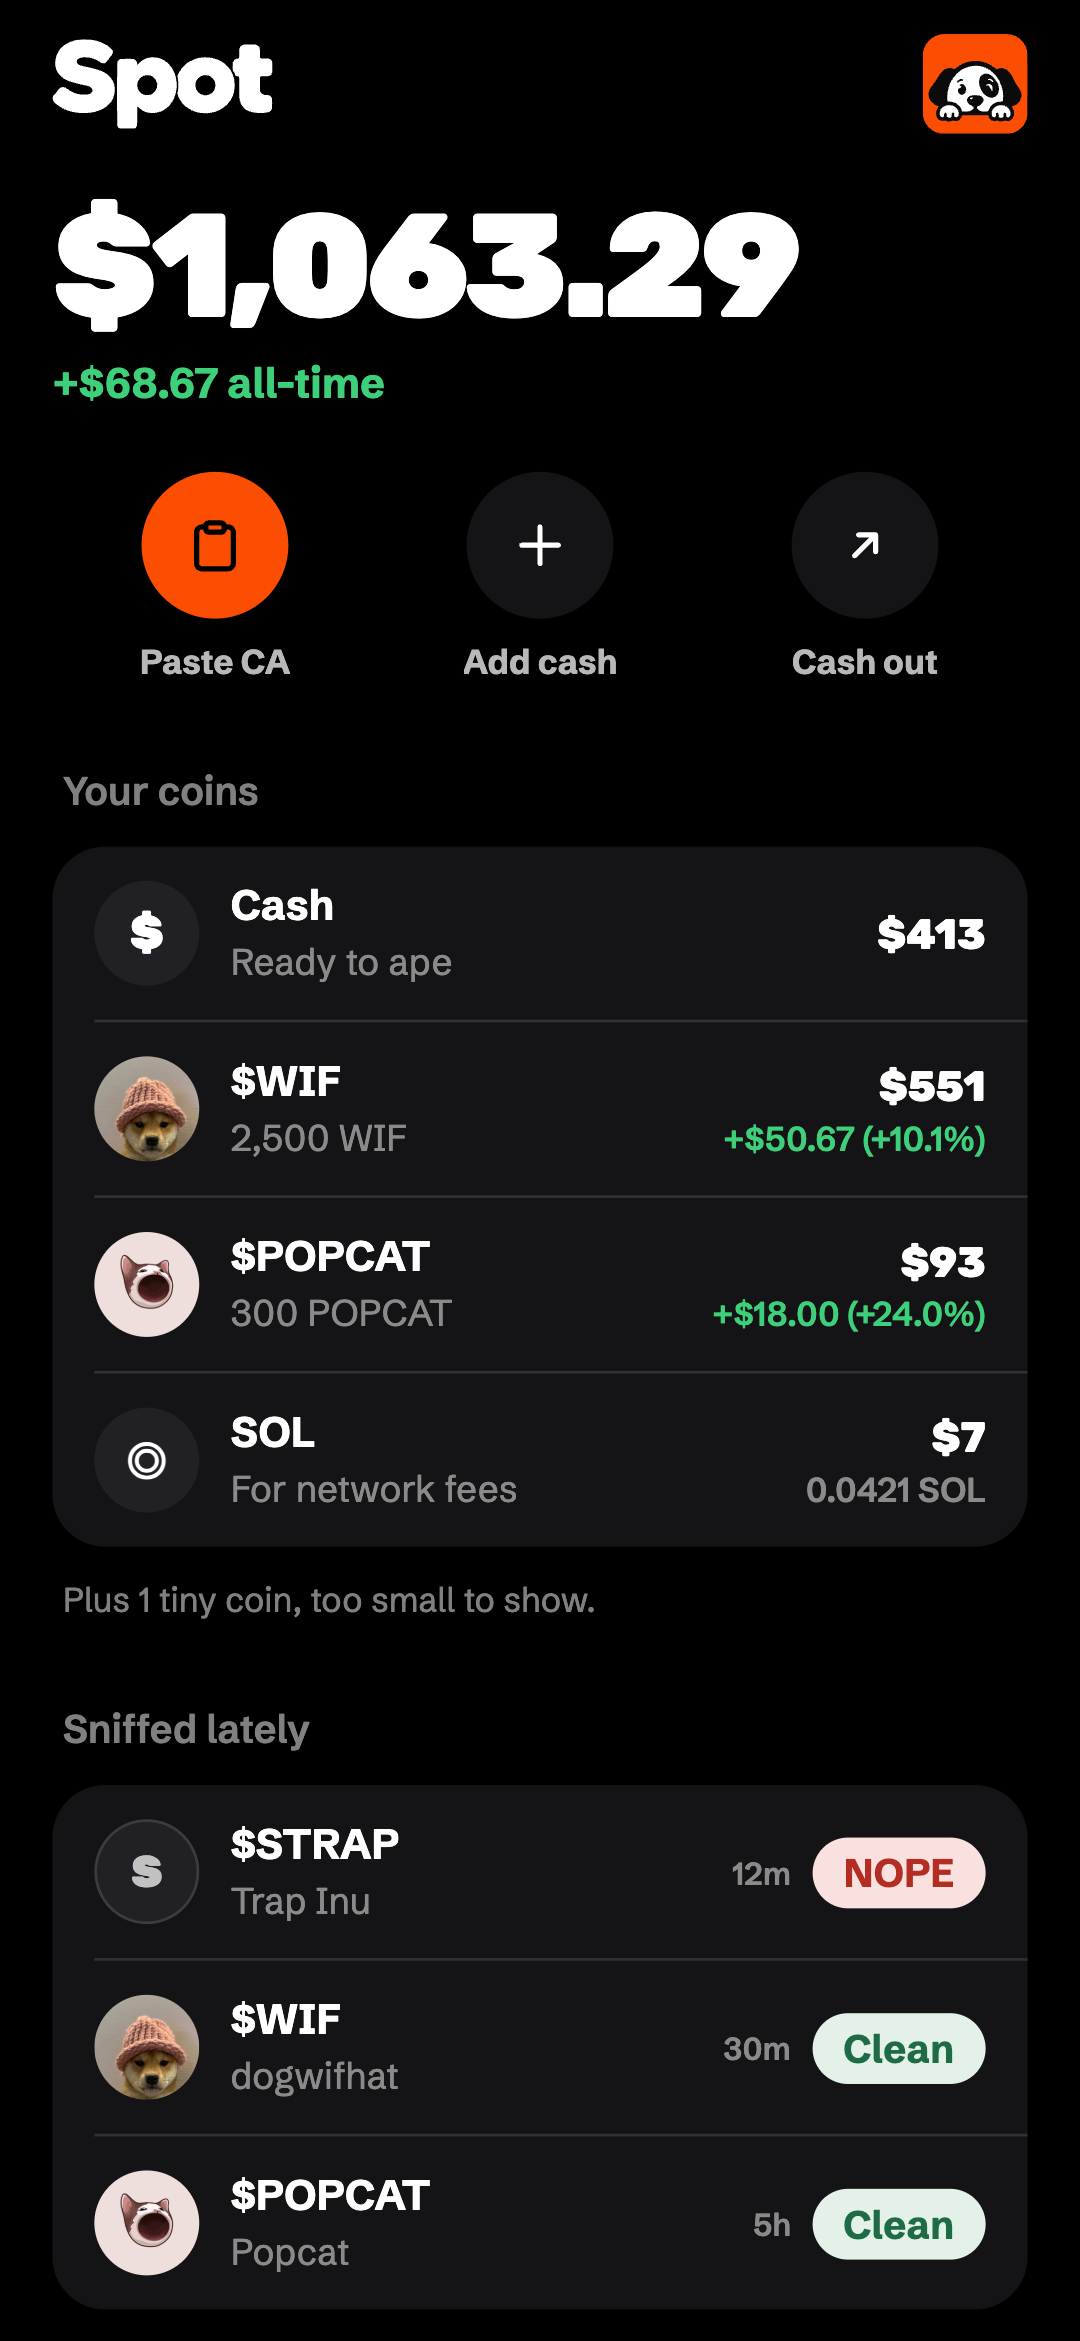
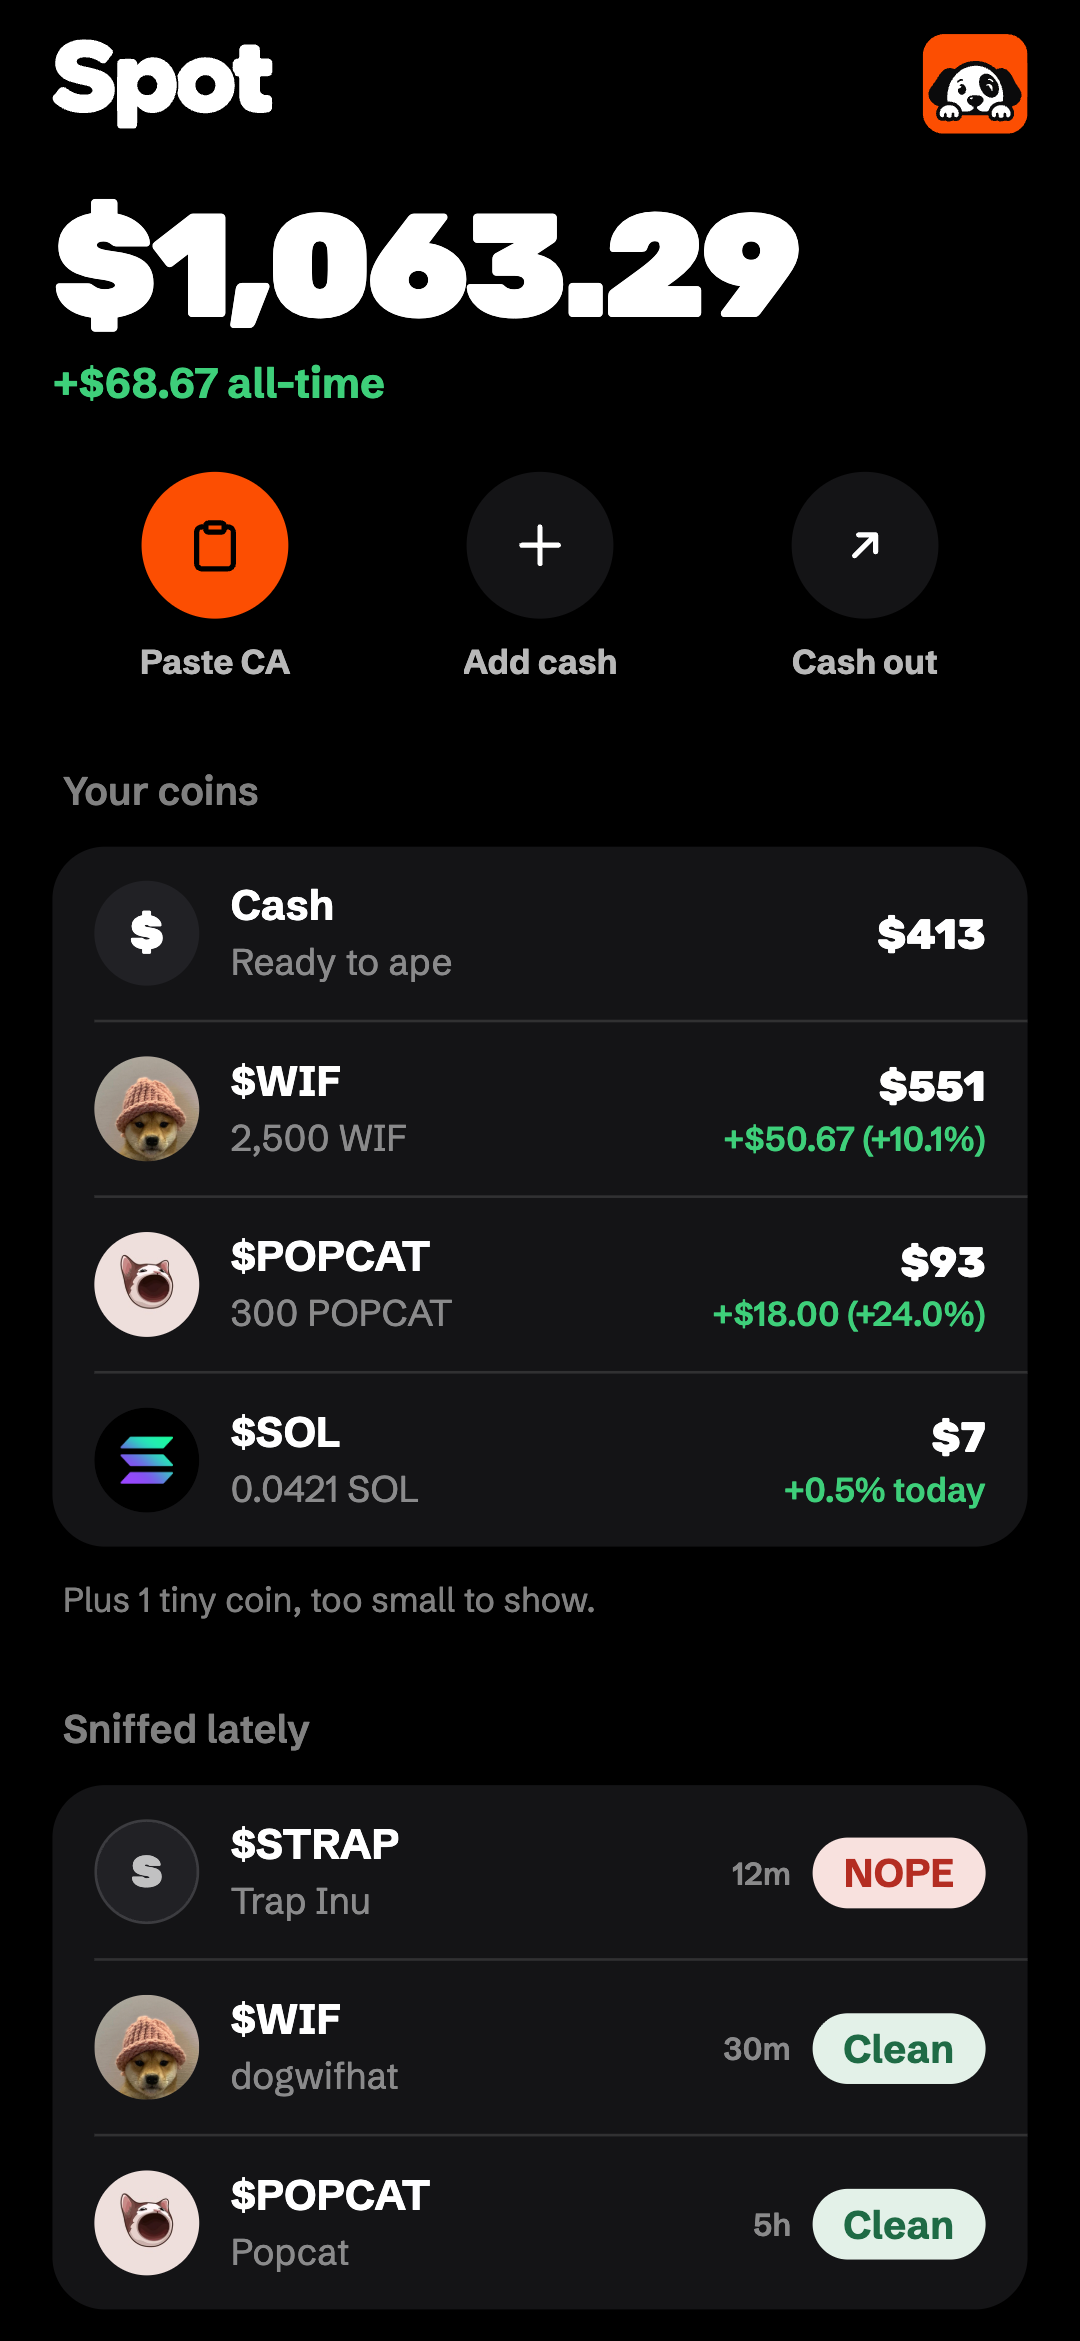
0.6.3: SOL counts in the all-time figure; the store's bag shot shows it as a coin
Found walking SOL on the web build: an ape of SOL showed what it made
on its row but not in the all-time figure over the bag, which counted
only the coins the server lists. Home now lists and counts the same
coins, SOL among them (coinsOf in logic.ts, with a spec).

The store's bag screenshot is re-shot with SOL as a coin.

Changed region(s): [[0.2139, 0.5925, 0.4583, 0.6548], [0.7333, 0.6237, 0.9167, 0.6548], [0.0917, 0.5925, 0.1833, 0.6548]]

diff --git a/mobile/src/logic.spec.ts b/mobile/src/logic.spec.ts
@@ -1,6 +1,7 @@
 import { describe, expect, it } from "vitest";
-import { MAX_TRADE, coinLine, foldChecks, moreChecks, plainShortFill, actionFor, emptyBag, faceSources, ago, amount, approx, candidateLine, cardLines, cashLede, coverWith, turnKey, chipsFor, clampAmount, count, dockKey, dockNote, fitFigure, fromPaste, fromShare, maxApe, momentLines, money, needsCash, ordered, padHint, pct, price, readablePath, sameName, shareFor, solHolding, solPosition, SOL_MINT, shareOf, shareText, shareWord, sourceLine, typeDigit, usd, verdictHead, verdictWord, worth, type DockState } from "./logic";
-import type { Candidate, Check } from "./types";
+import { MAX_TRADE, coinLine, coinsOf, foldChecks, moreChecks, plainShortFill, actionFor, emptyBag, faceSources, ago, amount, approx, candidateLine, cardLines, cashLede, coverWith, turnKey, chipsFor, clampAmount, count, dockKey, dockNote, fitFigure, fromPaste, fromShare, maxApe, momentLines, money, needsCash, ordered, padHint, pct, price, readablePath, sameName, shareFor, solHolding, solPosition, SOL_MINT, shareOf, shareText, shareWord, sourceLine, typeDigit, usd, verdictHead, verdictWord, worth, type DockState } from "./logic";
+import { pnlOf } from "./pnl";
+import type { Candidate, Check, Holding } from "./types";
 
 describe("a share", () => {
   it("keeps the link and the words around it, once", () => {
@@ -119,6 +120,15 @@ describe("SOL in the bag", () => {
     expect(solPosition(SOL_MINT, bag({ amount: 0.008, usd: 0.8 }))).toBeNull();
     expect(solPosition(SOL_MINT, bag({ amount: 0.9, usd: 90 }))?.token.name).toBe("Solana");
     expect(solPosition("EKpQGSJtjMFqKZ9KQanSqYXRcF8fBopzLHYxdM65zcjm", bag({ amount: 0.9, usd: 90 }))).toBeNull();
+  });
+  it("sits among the coins by its worth, and what Spot bought of it counts in the all-time figure", () => {
+    const wif = { token: { mint: "wif", symbol: "WIF" }, amount: 100, raw: "100000000", usd: 120 } as unknown as Holding;
+    const bonk = { token: { mint: "bonk", symbol: "BONK" }, amount: 1e6, raw: "100000000000", usd: 20 } as unknown as Holding;
+    const coins = coinsOf({ ...bag({ amount: 1, usd: 110 }), positions: [wif, bonk] });
+    expect(coins.map((c) => c.token.symbol)).toEqual(["WIF", "SOL", "BONK"]);
+    const bought = { id: "b", at: "2026-10-21T10:00:00Z", owner: "w", mint: SOL_MINT, symbol: "SOL", icon: null, side: "buy" as const, usdc: 100, amount: 1, exact: false, signature: null };
+    expect(pnlOf([bought], coins).open).toBeCloseTo(10, 6);
+    expect(coinsOf(bag({ amount: 0, usd: 0 }))).toEqual([]);
   });
 });
 

diff --git a/mobile/src/screens/HomeScreen.tsx b/mobile/src/screens/HomeScreen.tsx
@@ -8,9 +8,8 @@ import Svg, { Path } from "react-native-svg";
 import { errorLine } from "../api";
 import { ActionKey, Answer, Breathing, Button, CoinFace, Group, PuppyIcon, Row, Section, Wordmark, tap, useToast } from "../components/ui";
 import { useHoldings } from "../holdings";
-import { ago, amount as fmtAmount, emptyBag, fromPaste, money, pct, solHolding, verdictWord, worth } from "../logic";
+import { ago, amount as fmtAmount, coinsOf, emptyBag, fromPaste, money, pct, verdictWord, worth } from "../logic";
 import type { RootParams } from "../navigation";
-import type { Holding, Holdings } from "../types";
 import { books, gain, pnlOf, since, sinceLine } from "../pnl";
 import { useStore } from "../store";
 import { color, font, leading, radius, size, space, tracking, type } from "../theme";
@@ -102,7 +101,8 @@ export function HomeScreen({ navigation }: Props) {
   const b = bag.value;
   const mine = wallet ? trades.filter((t) => t.owner === wallet.address) : [];
   const ledger = books(mine);
-  const pnl = b ? pnlOf(mine, b.positions) : null;
+  const held = b ? coinsOf(b) : [];
+  const pnl = b ? pnlOf(mine, held) : null;
   const nothing = b ? emptyBag(b.totalUsd) : false;
   const trading = wallet?.kind === "mwa";
 
@@ -161,7 +161,7 @@ export function HomeScreen({ navigation }: Props) {
               {/* A tracked wallet's cash can't be aped with here, so it is only named. */}
               <Row left={<Cash glyph="$" />} title="Cash" subtitle={trading ? "Ready to ape" : "USDC"} right={<Value value={worth(b.usdc.usd)} />} />
               {/* SOL is a coin like the rest: in the list by its worth, so the rows still add up to the number over them. */}
-              {withSol(b).map((p) => {
+              {held.map((p) => {
                 /* Your own gain where Spot bought it; the coin's day where it did not. */
                 const book = ledger.get(p.token.mint);
                 const s = book ? since(book, p) : null;
@@ -222,12 +222,6 @@ export function HomeScreen({ navigation }: Props) {
       {toastNode}
     </View>
   );
-}
-
-/* The coins and SOL among them, the biggest first. */
-function withSol(b: Holdings): Holding[] {
-  const sol = solHolding(b.sol);
-  return sol ? [...b.positions, sol].sort((x, y) => y.usd - x.usd) : b.positions;
 }
 
 function Cash({ glyph }: { glyph: ReactNode }) {

diff --git a/mobile/src/logic.ts b/mobile/src/logic.ts
@@ -266,6 +266,12 @@ export function solHolding(sol: Holdings["sol"]): Holding | null {
   return { token, amount: sol.amount, raw: String(Math.max(0, lamports - kept)), usd: sol.usd };
 }
 
+/** A bag's coins with SOL among them, the biggest first: what Home lists, and what its all-time figure counts. */
+export function coinsOf(bag: Holdings): Holding[] {
+  const sol = solHolding(bag.sol);
+  return sol ? [...bag.positions, sol].sort((x, y) => y.usd - x.usd) : bag.positions;
+}
+
 /** SOL held, as the coin screen trades it: only while there is more than the dollar a trade keeps back. */
 export function solPosition(mint: string, bag: Holdings | null | undefined): Holding | null {
   if (mint !== SOL_MINT || !bag) return null;
